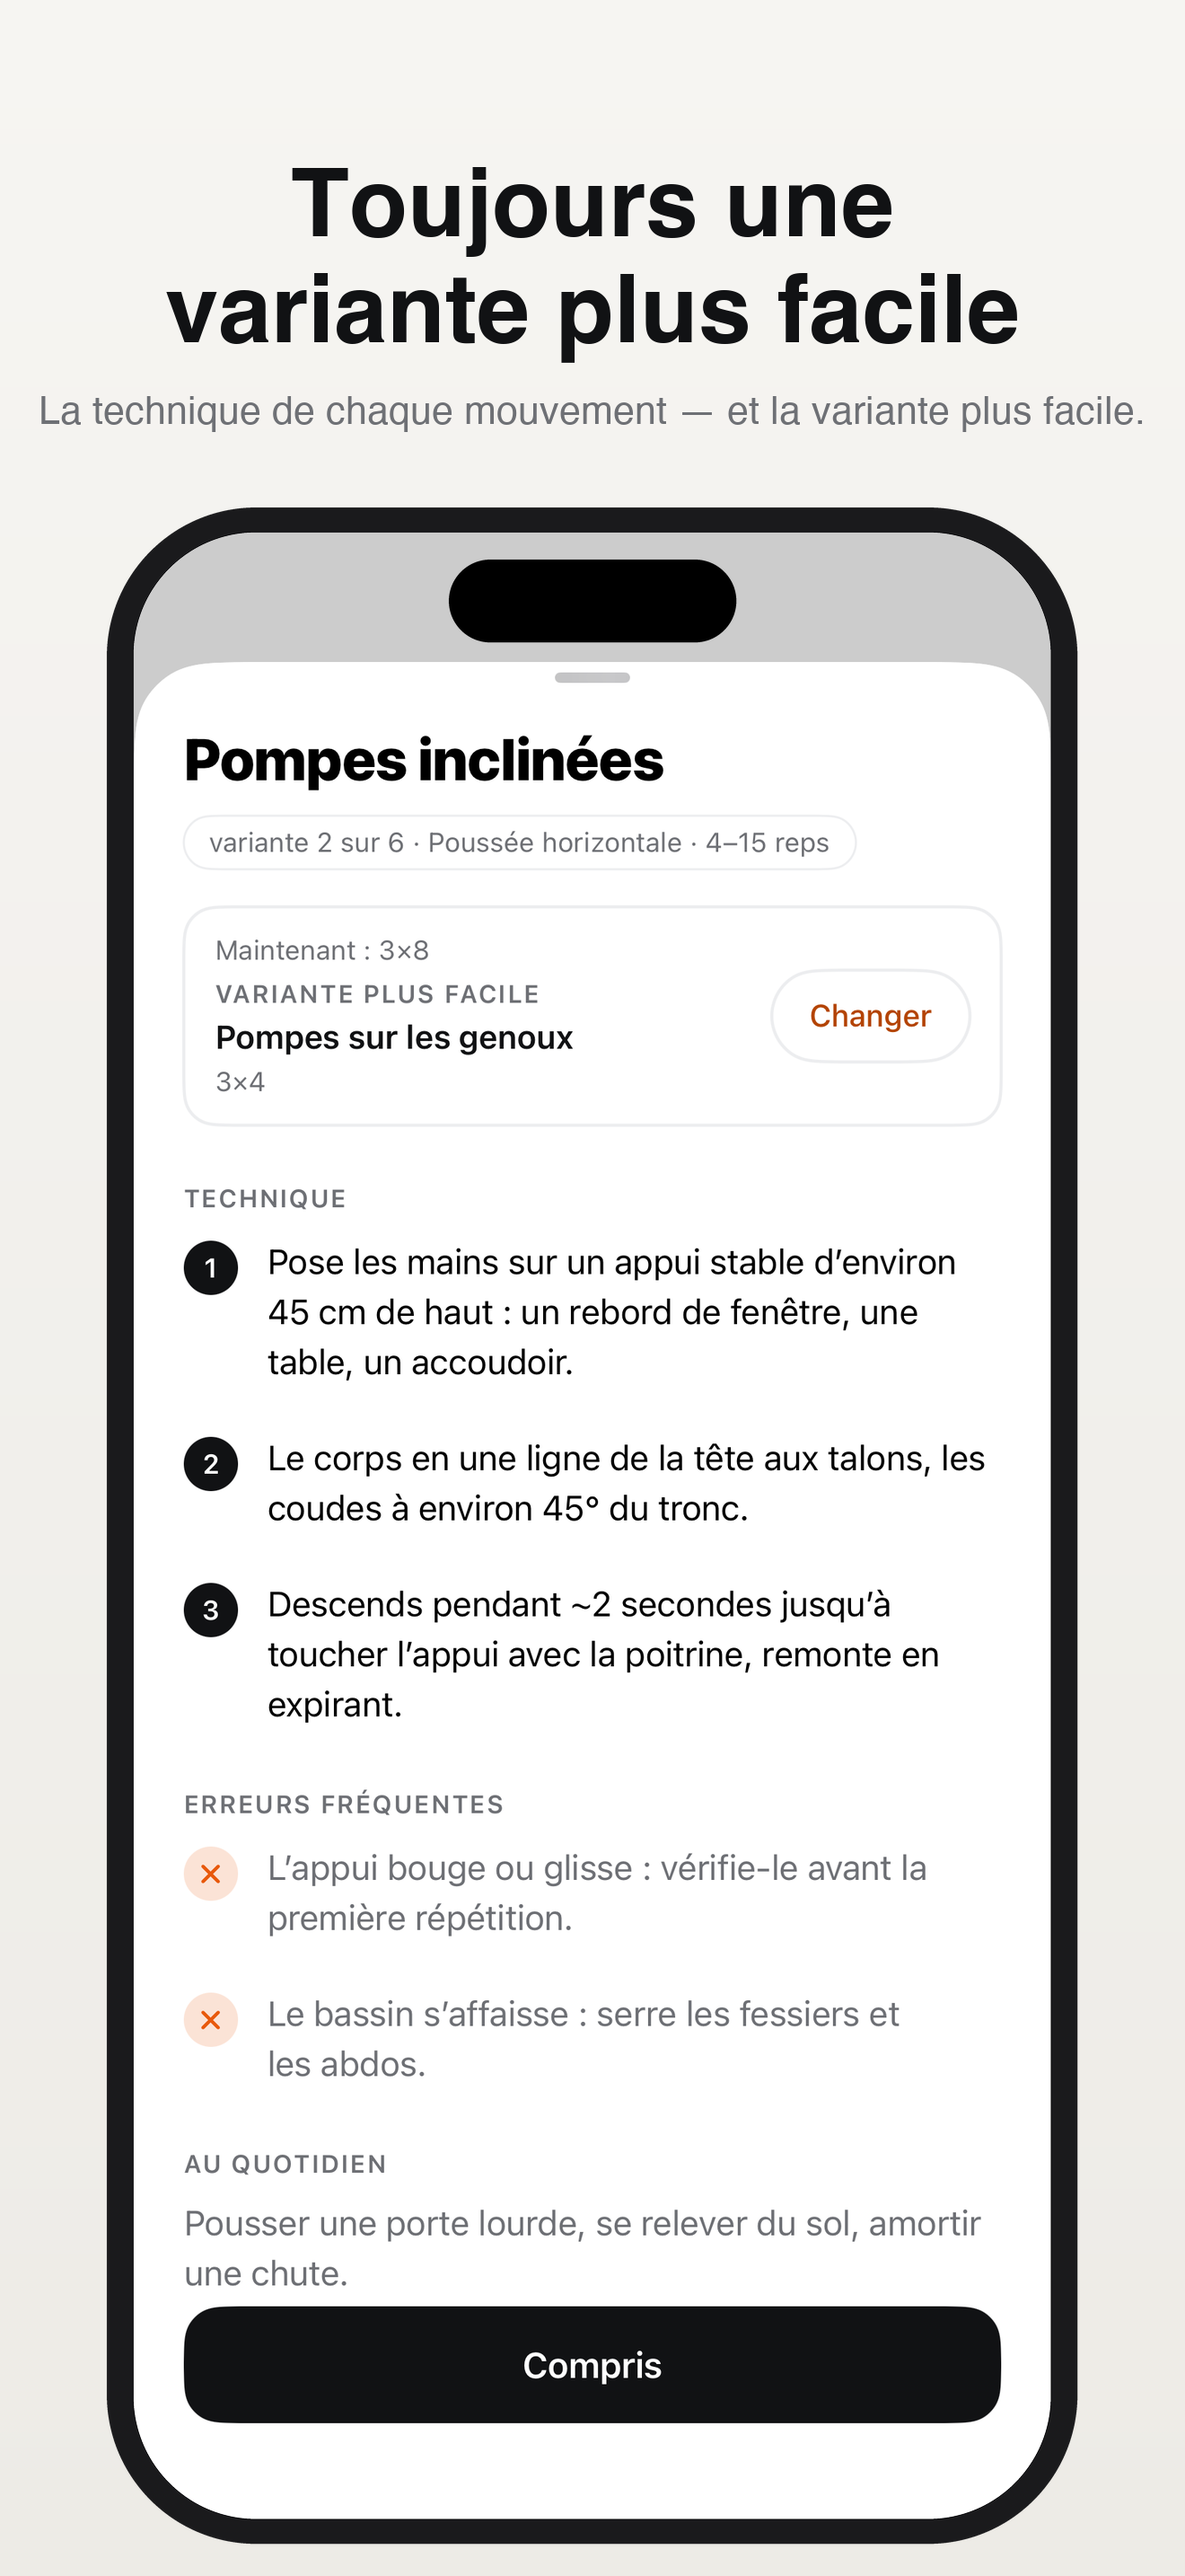
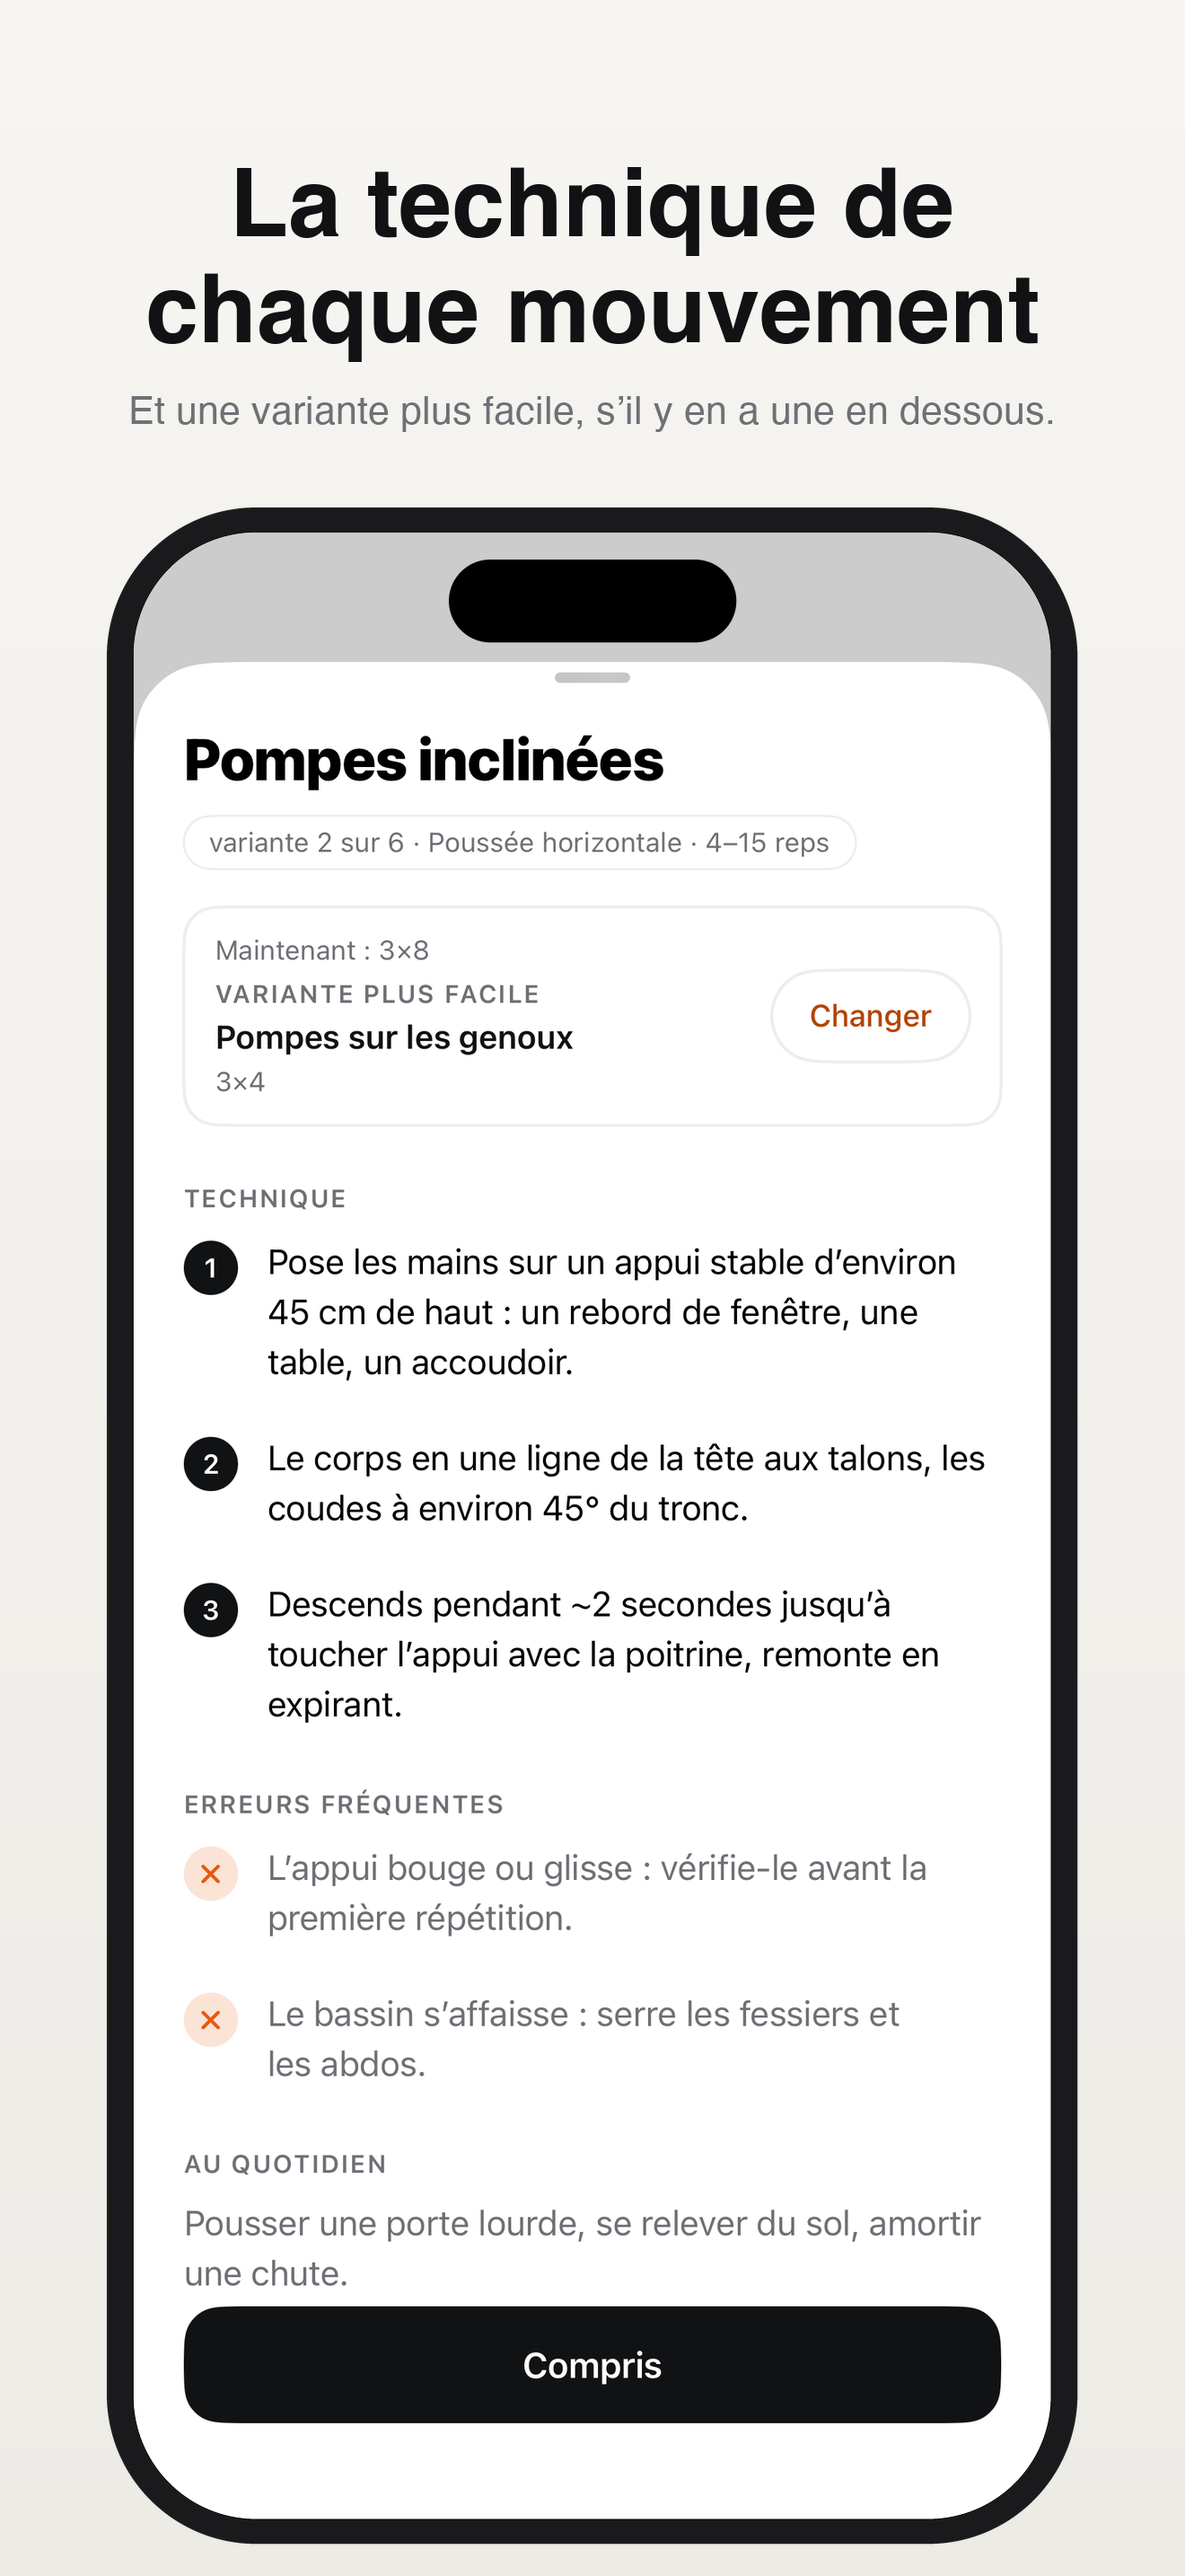
fix: the technique frame promises an easier variation only where there is one below

Changed region(s): [[0.0621, 0.0621, 0.9629, 0.1862]]

diff --git a/store/appstore/tools/compose.py b/store/appstore/tools/compose.py
@@ -134,13 +134,17 @@ jobs = [
     # --- 5. technique_ — new in 2.1.0. The sheet FROM THE PLAN: `planned:
     #        true` lives in one place in the project (TodayView.swift:98) and
     #        is what draws the step below, so no other door composes this.
-    (f"{RAW}/technique_en.png",   ["Always a version", "you can do"], "Technique for every movement — and the easier version.", f"{OUT}/en/s5.png"),
-    (f"{RAW}/technique_ru.png",   ["Всегда есть", "вариация полегче"], "У каждого движения — техника и вариация полегче.", f"{OUT}/ru/s5.png"),
-    (f"{RAW}/technique_es.png",   ["Siempre hay una versión", "que puedes hacer"], "Técnica para cada movimiento — y la variación más fácil.", f"{OUT}/es/s5.png"),
-    (f"{RAW}/technique_pt-br.png", ["Sempre existe uma", "variação possível"], "Técnica para cada movimento — e a variação mais fácil.", f"{OUT}/pt-br/s5.png"),
-    (f"{RAW}/technique_de.png",   ["Immer eine", "leichtere Variante"], "Technik zu jeder Bewegung – und die leichtere Variante.", f"{OUT}/de/s5.png"),
-    (f"{RAW}/technique_fr.png",   ["Toujours une", "variante plus facile"], "La technique de chaque mouvement — et la variante plus facile.", f"{OUT}/fr/s5.png"),
-    (f"{RAW}/technique_it.png",   ["Sempre c’è una", "variante che puoi fare"], "Tecnica per ogni movimento — e la variante più facile.", f"{OUT}/it/s5.png"),
+    #        2.5.0: "Always a version you can do" was false — variation 1 has
+    #        nothing below it (`Handles.swift:27`), and a clean start is
+    #        variation 1 everywhere, so the caption promises the step only
+    #        where one exists (the #238 fix of `plan.techniqueHint`).
+    (f"{RAW}/technique_en.png",   ["Technique for", "every movement"], "And an easier variation, whenever there is one below.", f"{OUT}/en/s5.png"),
+    (f"{RAW}/technique_ru.png",   ["Техника", "каждого движения"], "И вариация полегче — если ниже есть ступень.", f"{OUT}/ru/s5.png"),
+    (f"{RAW}/technique_es.png",   ["Técnica para", "cada movimiento"], "Y una variación más fácil, si hay una más abajo.", f"{OUT}/es/s5.png"),
+    (f"{RAW}/technique_pt-br.png", ["Técnica de cada", "movimento"], "E uma variação mais fácil, sempre que houver uma abaixo.", f"{OUT}/pt-br/s5.png"),
+    (f"{RAW}/technique_de.png",   ["Technik zu", "jeder Bewegung"], "Und eine leichtere Variante, wenn darunter eine liegt.", f"{OUT}/de/s5.png"),
+    (f"{RAW}/technique_fr.png",   ["La technique de", "chaque mouvement"], "Et une variante plus facile, s’il y en a une en dessous.", f"{OUT}/fr/s5.png"),
+    (f"{RAW}/technique_it.png",   ["Tecnica per", "ogni movimento"], "E una variante più facile, quando ce n’è una sotto.", f"{OUT}/it/s5.png"),
     # --- 6. summary_ — new in 2.4.2, replaces `set_` (see the slot history
     #        below). The summary of a finished hold (§41.13): every set as the
     #        clock counted it, the plan beside each, and the "Next time" block
